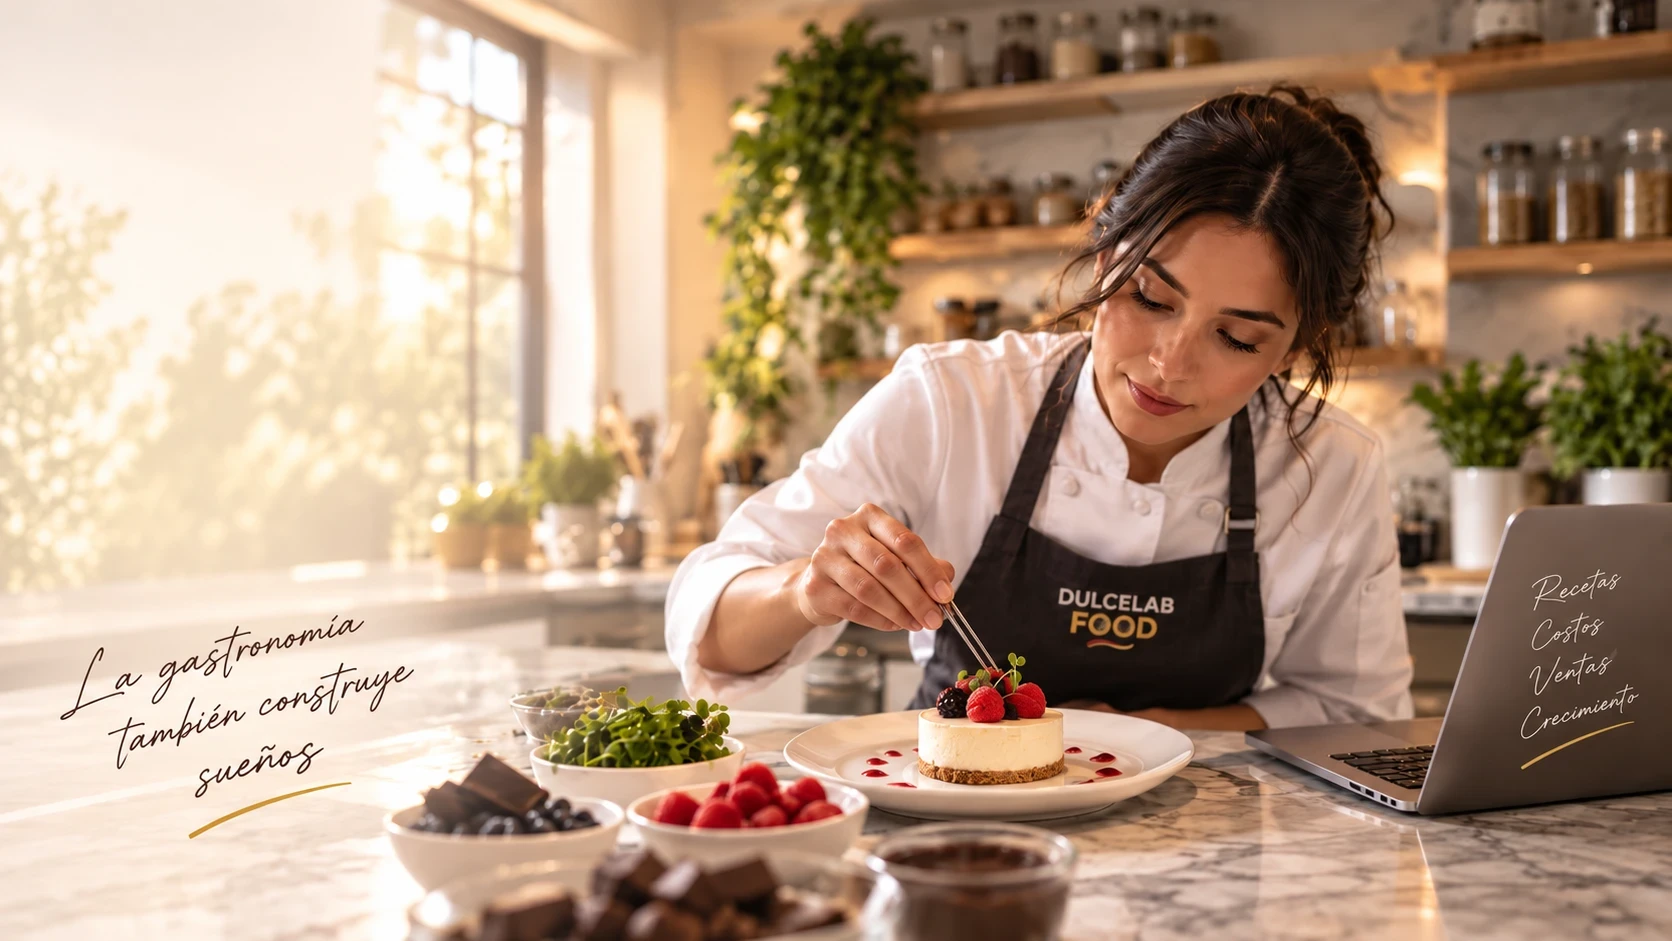
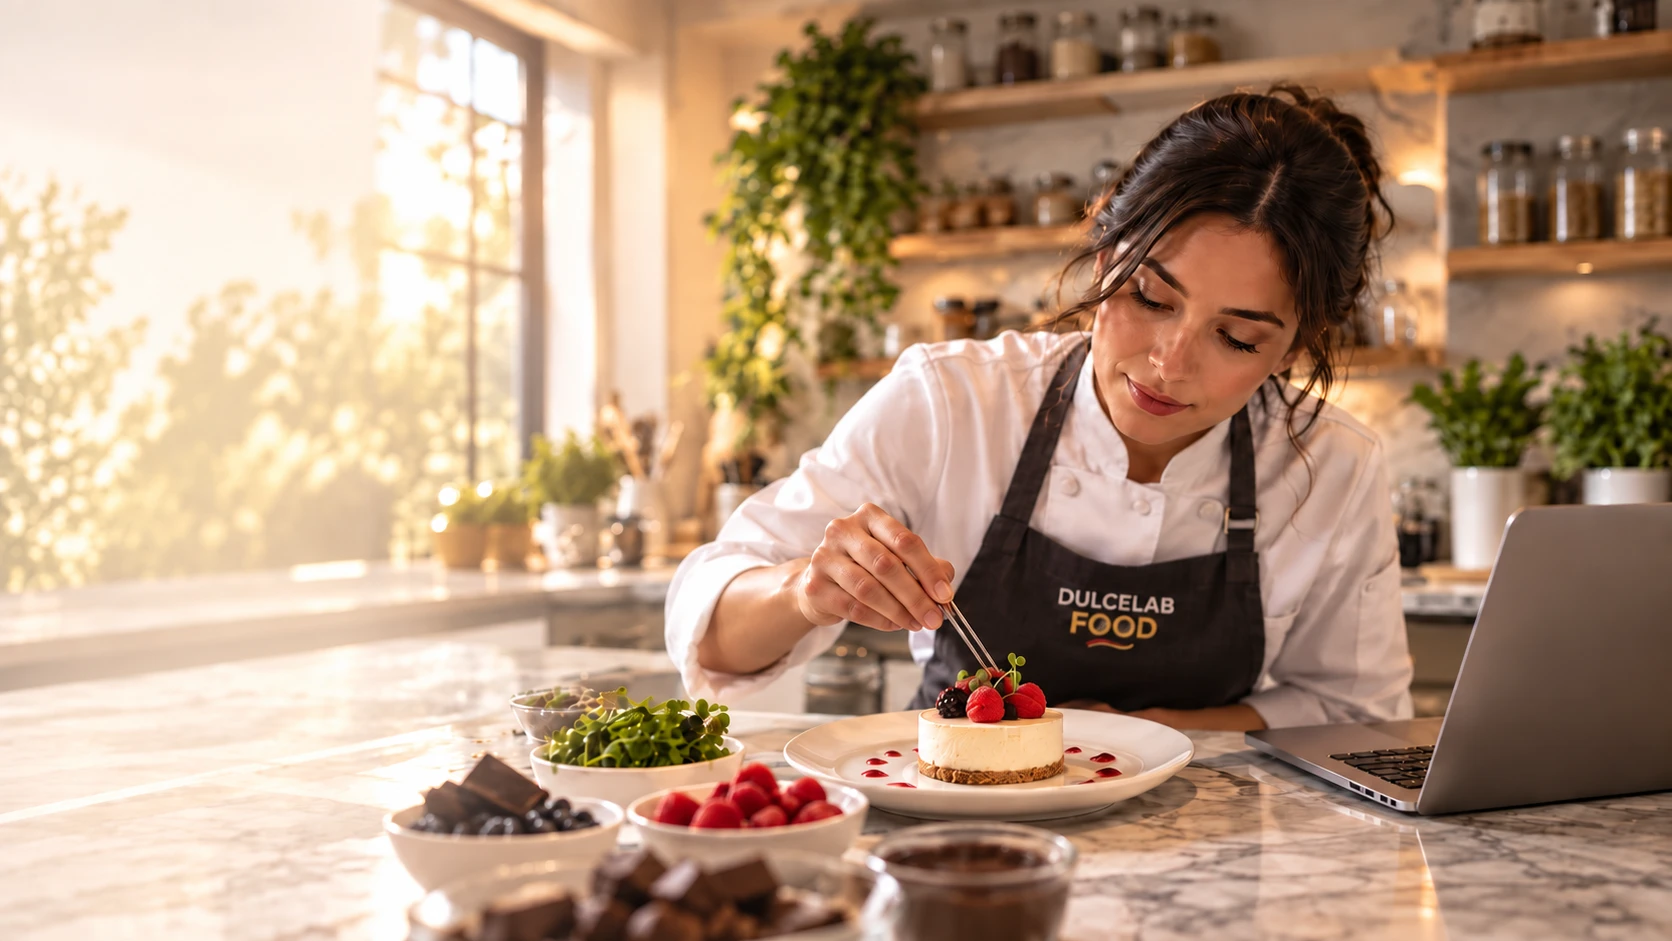
Usa la foto limpia del cliente y corrige legibilidad y móvil del hero
- Reemplaza la foto por la versión sin las frases quemadas que mandó el
  cliente, así ya no hace falta recortar para esquivar texto duplicado.
- Vuelve a poner un velo detrás del texto para que se lea bien sobre la
  foto, pero translúcido (no un panel sólido como antes).
- En móvil la foto vuelve a ser el fondo real de la sección (como en
  desktop), no una tarjeta aparte: el texto y las categorías flotan
  encima, igual que se ve en pantallas grandes.

diff --git a/css/styles.css b/css/styles.css
@@ -460,11 +460,24 @@ html{scrollbar-width:thin;scrollbar-color:var(--scroll-thumb) var(--scroll-track
 }
 .hero__photo-bg{
   position:absolute;inset:0;z-index:-2;
-  width:100%;height:100%;object-fit:cover;object-position:100% 24%;
-  /* Zoom extra: la nota "La gastronomía también construye sueños" viene
-     quemada en la foto original, abajo a la izquierda, justo donde van
-     los botones. Con este encuadre queda fuera del cuadro visible. */
-  transform:scale(1.3);
+  width:100%;height:100%;object-fit:cover;object-position:62% 24%;
+}
+/* Velo tenue para que el texto se lea sobre la foto sin tapar la imagen
+   (translúcido siempre: nunca llega a verse como un panel blanco sólido). */
+.hero--photo::before{
+  content:"";position:absolute;inset:0;z-index:-1;pointer-events:none;
+  background:linear-gradient(100deg,
+    color-mix(in srgb,var(--crema) 58%,transparent) 0%,
+    color-mix(in srgb,var(--crema) 34%,transparent) 26%,
+    color-mix(in srgb,var(--crema) 12%,transparent) 45%,
+    transparent 62%);
+}
+:root[data-theme="dark"] .hero--photo::before{
+  background:linear-gradient(100deg,
+    color-mix(in srgb,var(--chocolate) 62%,transparent) 0%,
+    color-mix(in srgb,var(--chocolate) 38%,transparent) 26%,
+    color-mix(in srgb,var(--chocolate) 14%,transparent) 45%,
+    transparent 62%);
 }
 .hero__wrap{position:relative;z-index:1;width:100%;max-width:var(--wrap);margin-inline:auto}
 .hero__copy{max-width:34rem}
@@ -513,24 +526,27 @@ html{scrollbar-width:thin;scrollbar-color:var(--scroll-thumb) var(--scroll-track
 .hero__pill--2::before,.hero__pill--4::before{background:var(--dorado)}
 
 @media (max-width:980px){
-  /* En móvil la foto deja de ser fondo recortado: se vuelve una imagen de
-     ancho completo con su relación de aspecto real, así nunca se pierde
-     contenido de la toma. */
-  .hero--photo{flex-direction:column;justify-content:center;min-height:0}
+  .hero--photo{flex-direction:column;justify-content:center}
   .hero__wrap{order:1}
-  .hero__photo-bg{
-    position:static;order:2;z-index:0;
-    width:100%;height:auto;aspect-ratio:1672/941;
-    object-position:50% 50%;
-    border-radius:var(--r-lg);
-    margin-block:1.6rem;
-  }
-  .hero__pill{order:3}
+  .hero__photo-bg{object-position:58% 20%}
+  .hero__pill{order:2}
   .hero__copy{max-width:none;text-align:center;margin-inline:auto}
   .hero__ctas--split,.hero__features{justify-content:center}
-  .hero__headline,.hero__sub{text-shadow:none}
+  .hero--photo::before{
+    background:linear-gradient(180deg,
+      color-mix(in srgb,var(--crema) 62%,transparent) 0%,
+      color-mix(in srgb,var(--crema) 38%,transparent) 36%,
+      color-mix(in srgb,var(--crema) 14%,transparent) 58%,
+      transparent 78%);
+  }
+  :root[data-theme="dark"] .hero--photo::before{
+    background:linear-gradient(180deg,
+      color-mix(in srgb,var(--chocolate) 66%,transparent) 0%,
+      color-mix(in srgb,var(--chocolate) 42%,transparent) 36%,
+      color-mix(in srgb,var(--chocolate) 14%,transparent) 58%,
+      transparent 78%);
+  }
   .hero__pill{position:static;animation:none;display:inline-flex;margin:.3rem auto}
-  .hero--photo .scroll-cue{position:static;order:4;margin-top:1.2rem}
 }
 @media (prefers-reduced-motion:reduce){.hero__pill{animation:none}}
 
